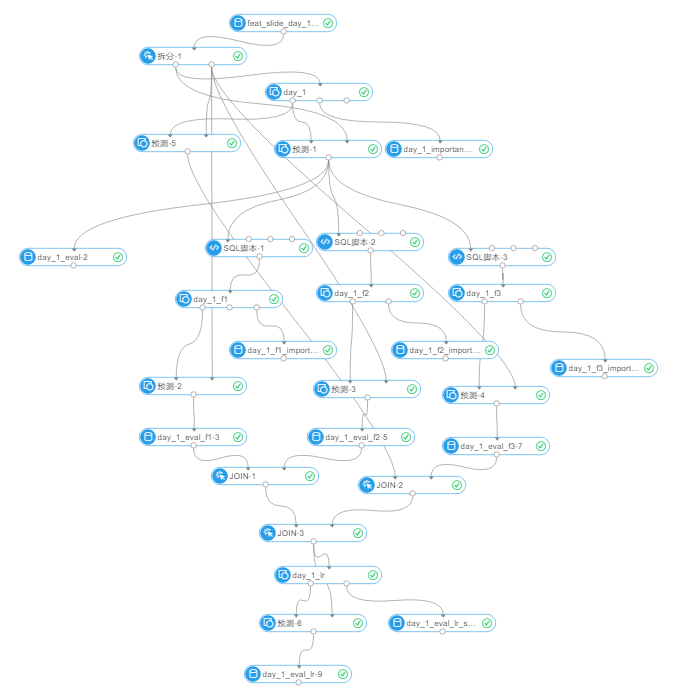
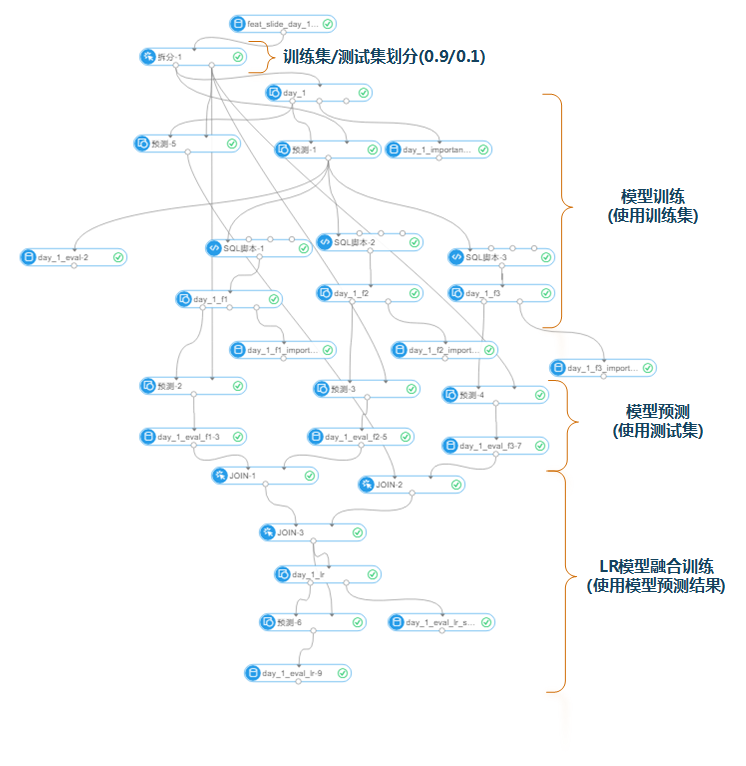
update summary

diff --git a/summary.md b/summary.md
@@ -147,19 +147,24 @@
 |dayofweek|周几|
 |monthofyear|月份|
 
-### 模型设计(线上部分)
+### 模型设计及模型融合(线上部分)
+
+线上部分的模型设计和模型融合是在一起做的。首先贴上整个实验图。
+<div align=center>
+<img src="https://github.com/lvniqi/tianchi_power/blob/master/image/模型图.png" width = "567" height = "321" alt="train-xgb" align=center />
+</div>
+
 由于我们没有发现PAI平台能在IDE上敲建模命令这个隐藏功能，所以只能大幅压缩模型。
 最终版本的线上模型用了1个4层1000棵树的PS-SMART做清洗，而后训练集以三种不同比例抽取最优秀的样本作为清洗后训练集，再训练1个5层1000棵树的PS-SMART+2个6层1000棵树的GBDT。
 为了加大各个模型间的差异，我们将特征进行采样，使每个模型得到大约2/3数量的原始特征(类似随机森林中特征提取)(见[split_features](https://github.com/lvniqi/tianchi_power/blob/master/code/preprocess.py#L790))。
 大致的流程图如下图所示。
 
 <div align=center>
-<img src="https://github.com/lvniqi/tianchi_power/blob/master/image/train_xgb_up.png" width = "567" height = "321" alt="train-xgb" align=center />
+<img src="https://github.com/lvniqi/tianchi_power/blob/master/image/train_xgb_up.png" width = "496" height = "510" alt="train-xgb" align=center />
 </div>
 
 另外，由于考虑到11月以及12月的节假日较少，用电量相对比较平稳(通过观察15年11,12月电量)，比较适合使用时间序列模型进行建模。我们使用了ARIMA模型对数据进行了时序建模。PAI平台的ARIMA超好用啊，点赞。
 
-### 模型融合(线上部分)
 
 ## 关于人工调整
 除了上述模型训练结果，我们还对模型训练结果进行过手动的微调。
@@ -188,7 +193,7 @@
 onehot特征(如假期等)太过稀疏了，直接拿来用tree based model训练，在节点分裂的时候不一定会被看上。所以可以在下次比赛时试试先过个线性回归试试。
 
 <div align=center>
-<img src="./image/onehot_lr.png" width = "393" height = "328" alt="onehot-lr" align=center />
+<img src="https://github.com/lvniqi/tianchi_power/blob/master/image/onehot_lr.png" width = "393" height = "328" alt="onehot-lr" align=center />
 </div>
 
 #### Other
